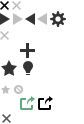
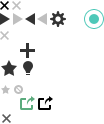
UI: notification button

diff --git a/ui/topbar/menu.js b/ui/topbar/menu.js
@@ -50,7 +50,7 @@ Cotton.UI.Topbar.Menu = Class.extend({
       });
     });
 
-    this._$proto_trigger = $('<div class="ct-proto_trigger">!</div>').click(function(){
+    this._$proto_trigger = $('<div class="ct-proto_trigger"></div>').click(function(){
       oGlobalDispatcher.publish('toggle_switch');
       // Analytics tracking
       Cotton.ANALYTICS.openSwitch();
@@ -61,7 +61,7 @@ Cotton.UI.Topbar.Menu = Class.extend({
       oGlobalDispatcher.publish('toggle_settings');
     });
 
-    this._$menu.append(this._$arrows, this._$favorites, this._$proto_trigger, this._$settings);
+    this._$menu.append(this._$arrows, this._$favorites, this._$settings, this._$proto_trigger);
   },
 
   $ : function() {

diff --git a/media/topbar.less b/media/topbar.less
@@ -113,17 +113,17 @@
     }
 
     > .ct-proto_trigger {
-      float: left;
-      margin-top: 10px;
-      margin-left: 20px;
-      color: @purewhite;
-      height: 14px;
-      width: 14px;
-      border-radius: 9px;
+      float: right;
+      margin-top: 7px;
+      margin-right: 15px;
+      height: 20px;
+      width: 20px;
+      // border-radius: 9px;
       font-weight: bold;
       text-align: center;
-      background-color: @purered;
-      background-position: 0 -60px;
+      // background-color: @purered;
+      background-image: url('/media/images/common/ct-icons.png');
+      background-position: -84px -9px;
       cursor: pointer;
       line-height: 13px;
       font-size: 12px;
